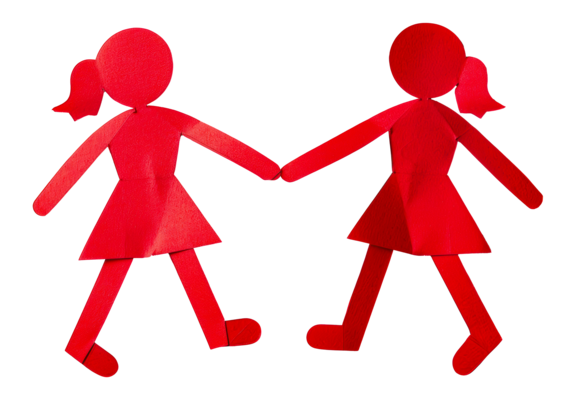
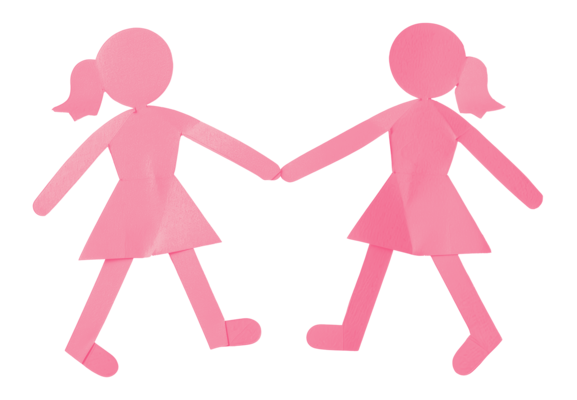
feat: update Girls image, fix make donation link and dynamic partner count, closes #112

Changed region(s): [[0.0312, 0.06, 0.9671, 0.96]]

diff --git a/src/app/domain/home/containers/home/home.html b/src/app/domain/home/containers/home/home.html
@@ -30,21 +30,11 @@
     alt="Flor"
     class="absolute hidden sm:block bottom-0 left-32 size-32 hover:skew-12"
   />
-  <!-- <img
-    src="/grama4.svg"
-    alt="Grama"
-    class="absolute bottom-0 left-50 size-48 hover:skew-12"
-  /> -->
   <img
     src="/two-red-paper-dolls-holding-hands-cut-out-stock.png"
     alt="Meninas de papel"
-    class="absolute bottom-0 md:right-10 hover:animate-bounce"
+    class="absolute h-64 md:h-72 object-cover bottom-0 left-1/2 -translate-x-1/2 sm:left-auto sm:translate-x-0 sm:right-10 hover:animate-bounce"
   />
-  <!-- <img
-    src="/papel-cortado3.svg"
-    alt="Papelzinho cortado"
-    class="absolute -bottom-30 left-0 z-30 -scale-x-100"
-  /> -->
 </section>
 
 <section class="bg-[#B9B885] w-full px-4 lg:px-20 xl:px-40 py-14 space-y-12">
@@ -73,7 +63,7 @@
 
   <div class="grid grid-cols-1 sm:grid-cols-3 gap-10 justify-center">
     <app-flower-stat
-      [value]="70"
+      [value]="60"
       label="Meninas assistidas"
       flowerColor="#BC7C7C"
       valueColor="#B9B885"
@@ -81,7 +71,7 @@
     />
 
     <app-flower-stat
-      [value]="3"
+      [value]=partnerCount
       label="Parceiros"
       flowerColor="#F6EFBD"
       valueColor="#B9B885"
@@ -151,7 +141,7 @@
       title="Faça uma doação"
       description="Contribuição única para manter nossos projetos e atividades em funcionamento."
       buttonText="Fazer doação"
-      link="/seja-um-padrinho"
+      link="/faca-sua-doacao"
       class="hover:scale-105 transition-transform duration-300"
     />
 

diff --git a/src/app/domain/home/containers/home/home.ts b/src/app/domain/home/containers/home/home.ts
@@ -27,6 +27,7 @@ import { SupportCard } from '../../components/support-card/support-card';
 export class Home {
   eventImages$: Observable<{ path: string, alt: string }[]> | null = null;
   partnerImages$: Observable<{ path: string, alt: string }[]> | null = null;
+  partnerCount: number = 0;
 
   yearOfFoundation = new Date('03-23-2002').getFullYear();
   today = new Date().getFullYear();
@@ -43,12 +44,15 @@ export class Home {
       }))));
 
     this.partnerImages$ = this.partnerService
-      .list()
-      .pipe(
-        map((partners) => partners.data.map((partner) => ({
+    .list()
+    .pipe(
+      map((partners) => {
+        this.partnerCount = partners.totalElements;
+        return partners.data.map((partner) => ({
           path: partner.previewImageUrl,
           alt: "Logo " + partner.name
-        })))
-      );
+        }));
+      })
+    );
   }
 }
